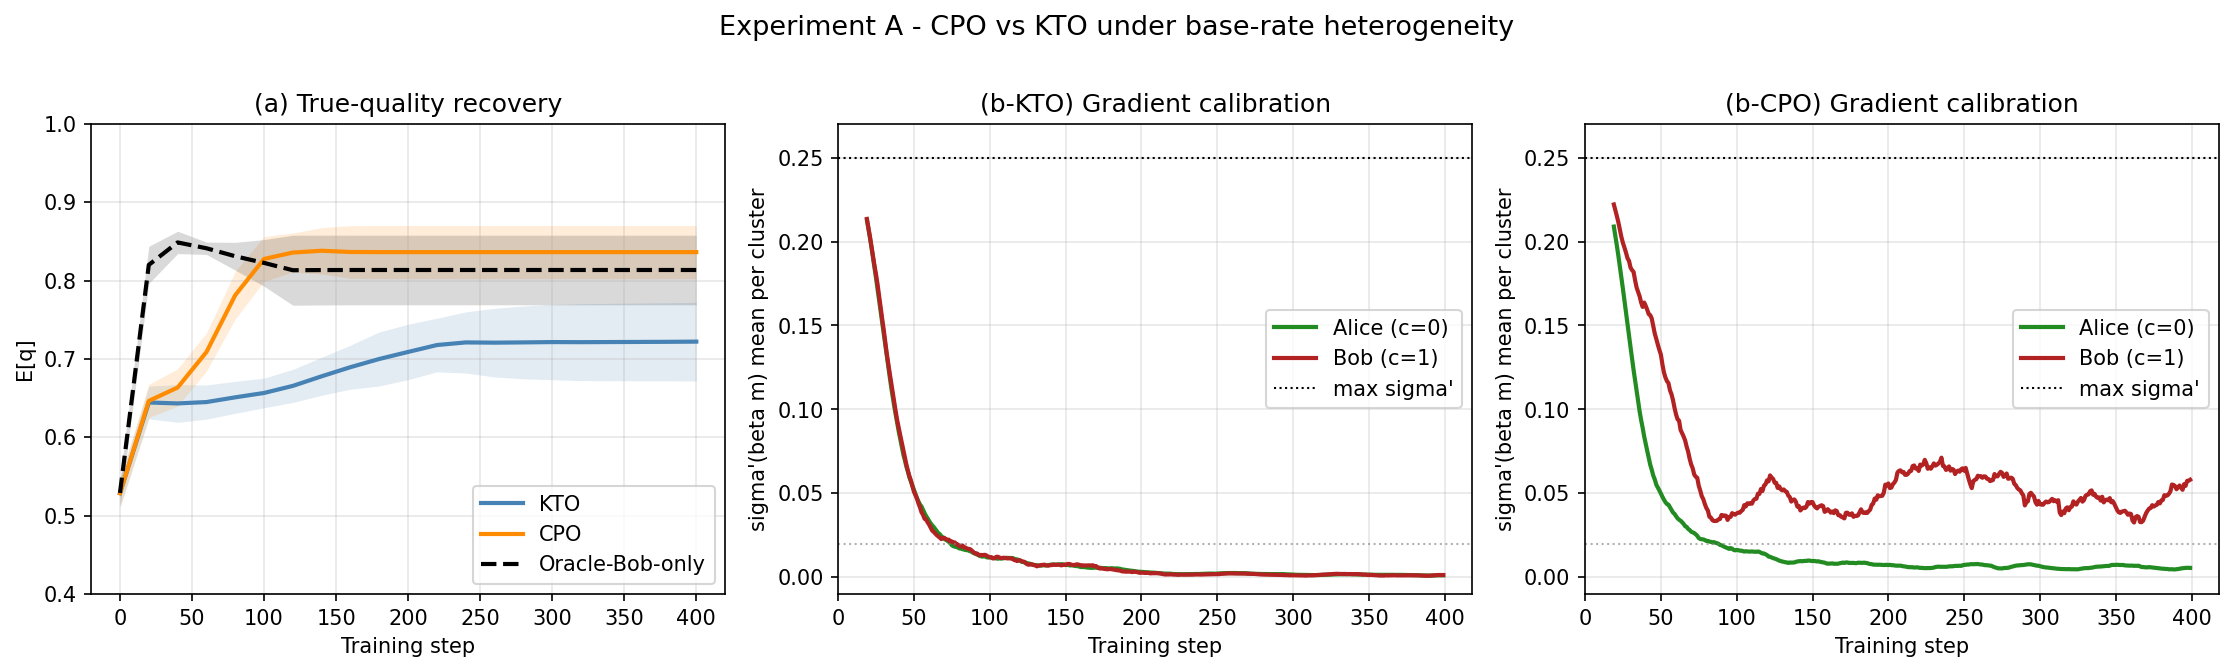
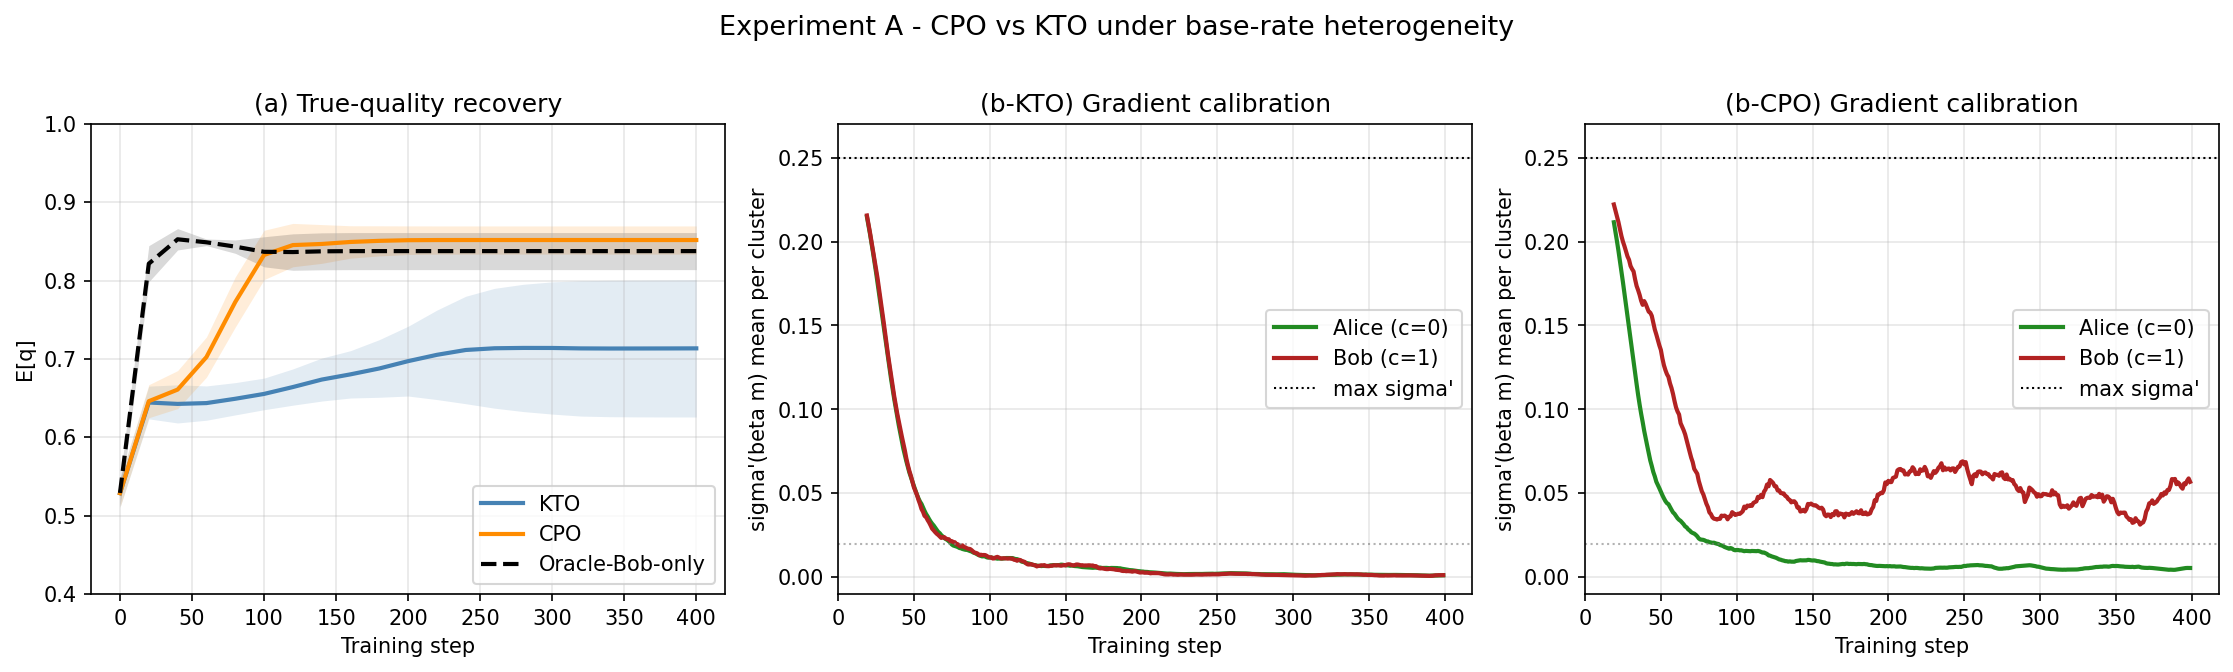
Stabilize reference timing diagnostics
Move the reference-point update in both online and offline training paths so each gradient step uses the reference state from the previous batch, then updates the reference after the optimizer step. This makes the reference used for the loss explicit and avoids mixing the current batch into its own baseline.

Remove the unused OnlineSampler and OracleBobSampler helpers from scr/samplers.py; the codebase now samples online batches through SyntheticWorld.sample_batch and offline runs through OfflineDataset. A repository search found no remaining references to those classes.

Track the regenerated Experiment A gradient-weight diagnostic images in outputs/exp_a and latex/images so the report assets match the audited training behavior.

diff --git a/scr/samplers.py b/scr/samplers.py
@@ -4,36 +4,6 @@ from scr.config import WorldConfig
 from scr.world import SyntheticWorld
 
 
-class OnlineSampler:
-    def __init__(self, world: SyntheticWorld, seed: int):
-        self.world = world
-        self.config = world.config
-        self.rng = np.random.default_rng(seed + 10_000)
-
-    def sample(self, batch_size: int) -> tuple[np.ndarray, np.ndarray, np.ndarray, np.ndarray]:
-        cfg = self.config
-        x = self.rng.integers(0, cfg.n_prompts, size=batch_size)
-        y = self.rng.integers(0, cfg.n_responses, size=batch_size)
-        cluster = self.rng.binomial(1, 1.0 - cfg.pi_a, size=batch_size).astype(np.int64)
-        desirable = self.world.label(x, y, cluster, self.rng)
-        return x, y, desirable, cluster
-
-
-class OracleBobSampler:
-    def __init__(self, world: SyntheticWorld, seed: int):
-        self.world = world
-        self.config = world.config
-        self.rng = np.random.default_rng(seed + 50_000)
-
-    def sample(self, batch_size: int) -> tuple[np.ndarray, np.ndarray, np.ndarray, np.ndarray]:
-        cfg = self.config
-        x = self.rng.integers(0, cfg.n_prompts, size=batch_size)
-        y = self.rng.integers(0, cfg.n_responses, size=batch_size)
-        cluster = np.ones(batch_size, dtype=np.int64)
-        desirable = self.world.label(x, y, cluster, self.rng)
-        return x, y, desirable, cluster
-
-
 class OfflineDataset:
     def __init__(self, world: SyntheticWorld, config: WorldConfig, seed: int):
         self.config = config

diff --git a/scr/training.py b/scr/training.py
@@ -174,7 +174,6 @@ def train_method(
         ref_cluster = cpo_cluster if method == "cpo" else np.zeros_like(true_cluster)
         policy = softmax(theta)
         rewards = np.log(policy[x, y]) + np.log(cfg.n_responses)
-        ref.update(rewards, x, ref_cluster, desirable, policy)
         z_i = ref.get(ref_cluster)
         if record_references:
             reference_logs.append(ref.z.copy())
@@ -183,6 +182,7 @@ def train_method(
         adam_m, adam_v = _adam_update(
             theta, grad, adam_m, adam_v, step + 1, train_config.learning_rate
         )
+        ref.update(rewards, x, ref_cluster, desirable, policy)
 
         if record_grad_weights:
             means = []
@@ -264,12 +264,12 @@ def train_offline_method(
 
         policy = softmax(theta)
         rewards = np.log(policy[x, y]) + np.log(cfg.n_responses)
-        ref.update(rewards, x, ref_cluster, desirable, policy)
         z_i = ref.get(ref_cluster)
         grad, _ = _loss_grad(theta, x, y, desirable, ref_cluster, z_i, train_config, cfg.n_responses)
         adam_m, adam_v = _adam_update(
             theta, grad, adam_m, adam_v, step + 1, train_config.learning_rate
         )
+        ref.update(rewards, x, ref_cluster, desirable, policy)
 
         if step % train_config.eval_every == 0:
             eval_steps.append(step)
